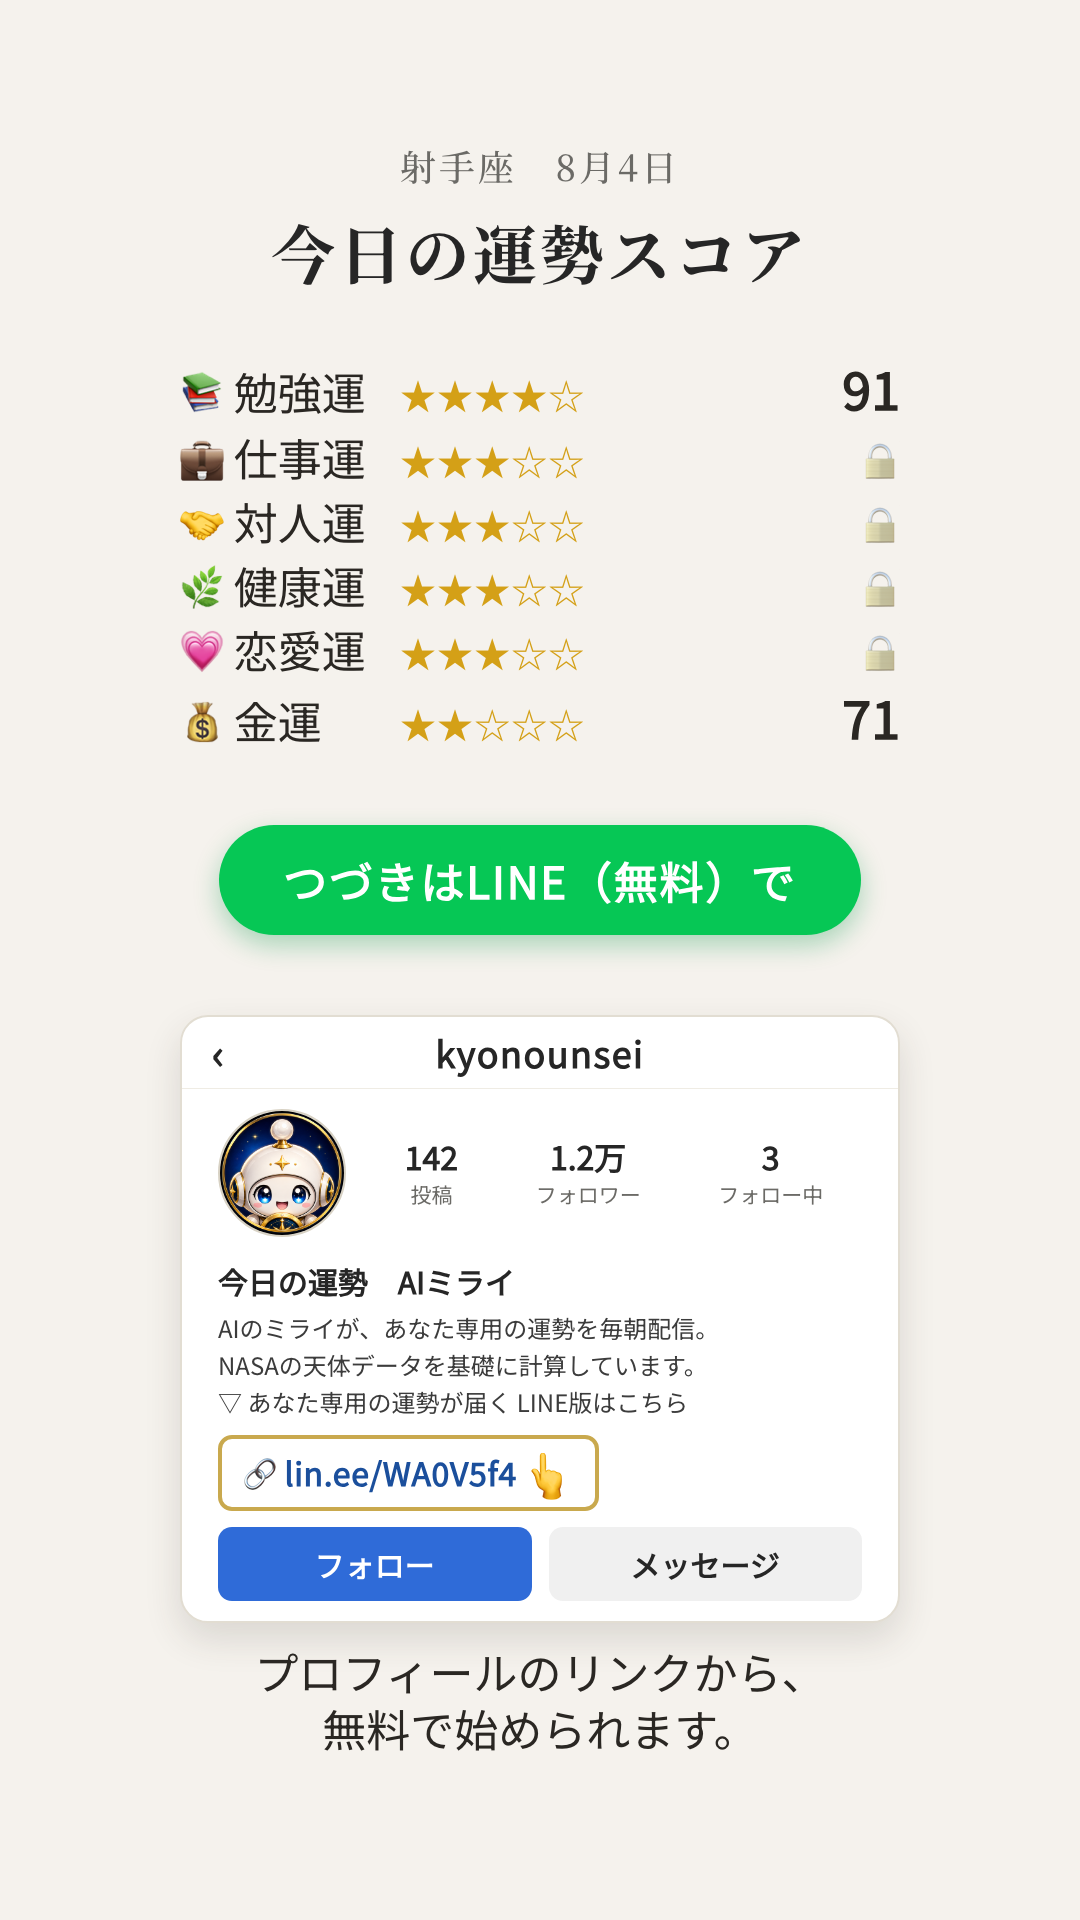
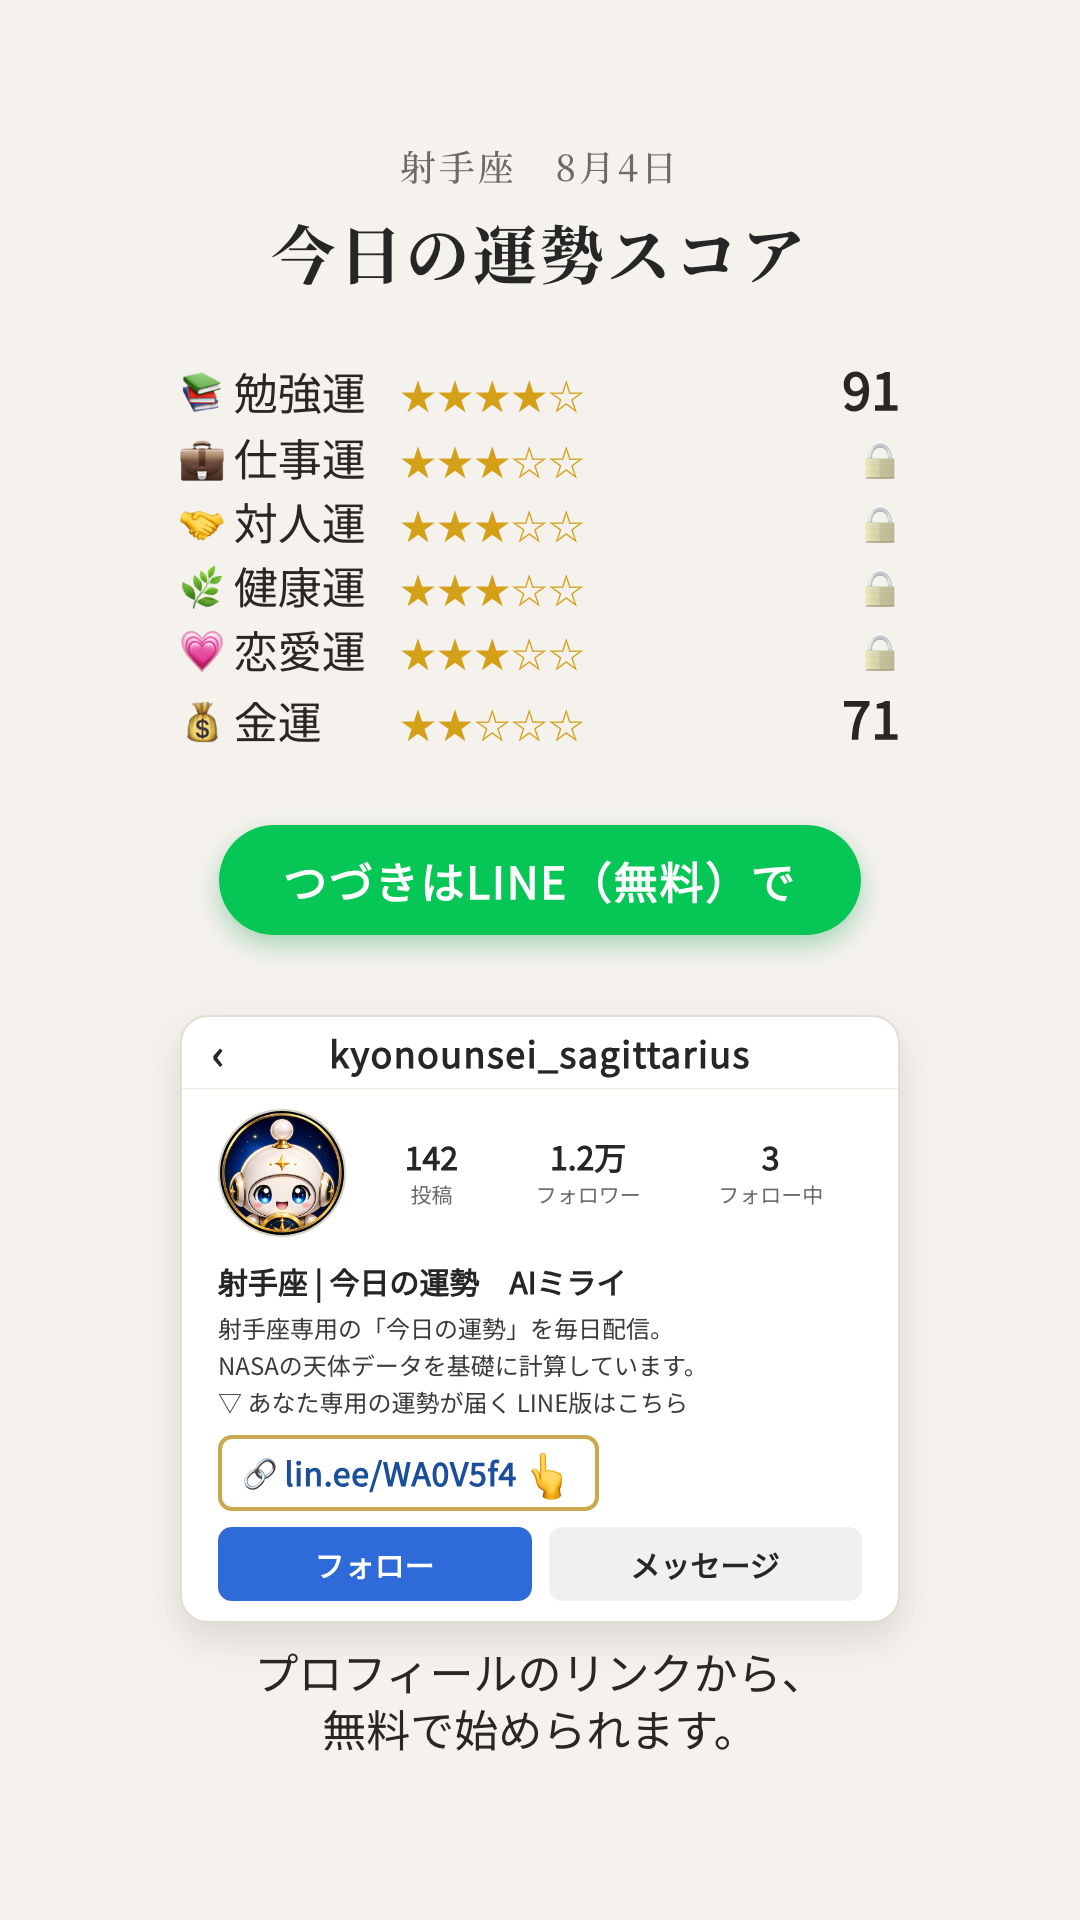
スライド4第23弾:モックを星座アカ別に フルハンドル版(牡羊座・射手座で確認)

Changed region(s): [[0.1833, 0.6562, 0.6417, 0.7188], [0.3056, 0.5312, 0.7028, 0.5625]]

diff --git a/slide4-test/index.html b/slide4-test/index.html
@@ -25,7 +25,7 @@
 <body>
 <div class="top-label">ストーリーズ Slide 4（今日の運勢スコア）確認 &middot; Internal Only</div>
 <div class="grid">
-  <div class="card"><img src="aries_slide4.png?v=1785751513" loading="lazy"><div class="label">牡羊座</div></div>
+  <div class="card"><img src="aries_slide4.png?v=1785752023" loading="lazy"><div class="label">牡羊座</div></div>
   <div class="card"><img src="taurus_slide4.png?v=1785750554" loading="lazy"><div class="label">牡牛座</div></div>
   <div class="card"><img src="gemini_slide4.png?v=1785750554" loading="lazy"><div class="label">双子座</div></div>
   <div class="card"><img src="cancer_slide4.png?v=1785750554" loading="lazy"><div class="label">蟹座</div></div>
@@ -33,7 +33,7 @@
   <div class="card"><img src="virgo_slide4.png?v=1785750554" loading="lazy"><div class="label">乙女座</div></div>
   <div class="card"><img src="libra_slide4.png?v=1785750554" loading="lazy"><div class="label">天秤座</div></div>
   <div class="card"><img src="scorpio_slide4.png?v=1785750554" loading="lazy"><div class="label">蠍座</div></div>
-  <div class="card"><img src="sagittarius_slide4.png?v=1785750554" loading="lazy"><div class="label">射手座</div></div>
+  <div class="card"><img src="sagittarius_slide4.png?v=1785752023" loading="lazy"><div class="label">射手座</div></div>
   <div class="card"><img src="capricorn_slide4.png?v=1785750554" loading="lazy"><div class="label">山羊座</div></div>
   <div class="card"><img src="aquarius_slide4.png?v=1785750554" loading="lazy"><div class="label">水瓶座</div></div>
   <div class="card"><img src="pisces_slide4.png?v=1785750554" loading="lazy"><div class="label">魚座</div></div>
